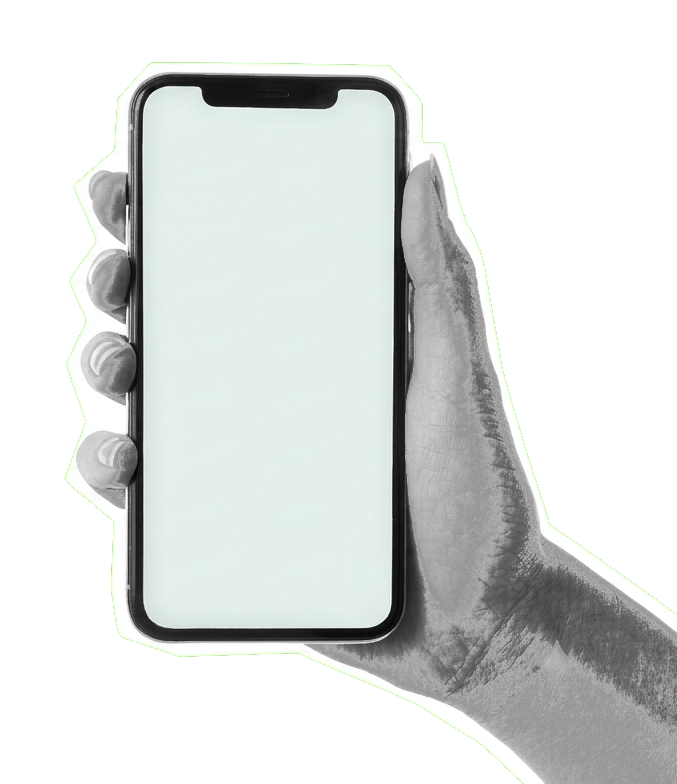
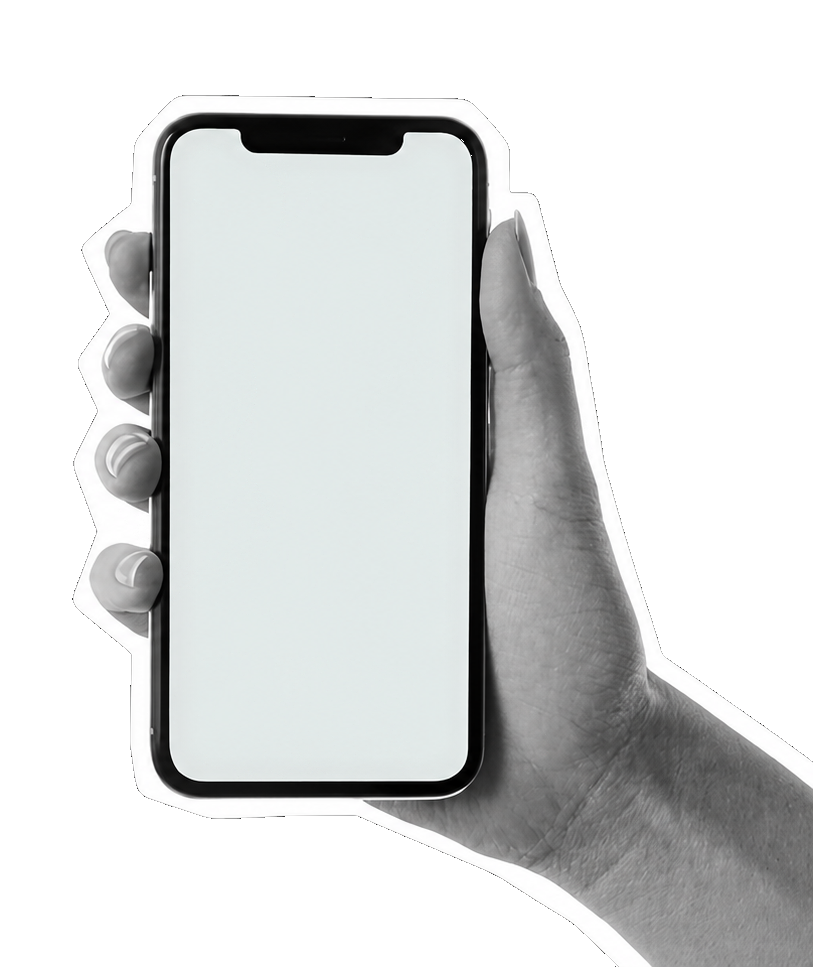
Swap hands photo, remove ambient blobs, smoother FAQ
- New transparent hands image, split per side
- Delete fixed blurred blobs (invisible, only cost paint)
- FAQ accordion uses grid-rows instead of max-height (no clip, less jank)

Changed region(s): [[0.0931, 0.0918, 1.0, 1.0], [0.7755, 0.9796, 0.8065, 1.0]]

diff --git a/src/routes/index.tsx b/src/routes/index.tsx
@@ -111,13 +111,6 @@ function Index() {
   return (
     <SmoothScroll>
       <div className="relative min-h-screen overflow-x-hidden bg-background text-ink font-sans">
-        {/* Ambient green blobs */}
-        <div aria-hidden className="pointer-events-none fixed inset-0 -z-10">
-          <div className="absolute -top-20 -left-24 h-[420px] w-[420px] rounded-full bg-lime opacity-40 blur-[120px]" />
-          <div className="absolute top-[35%] -right-32 h-[520px] w-[520px] rounded-full bg-lime-deep opacity-25 blur-[140px]" />
-          <div className="absolute bottom-0 left-1/3 h-[380px] w-[380px] rounded-full bg-lime-soft opacity-50 blur-[130px]" />
-        </div>
-
         <Nav />
         <Hero />
         <ResultsStrip />
@@ -606,11 +599,13 @@ function Faq({
                   </span>
                 </button>
                 <div
-                  className={`overflow-hidden transition-[max-height,opacity] duration-300 ease-in-out ${
-                    open ? "max-h-96 pb-6 opacity-100" : "max-h-0 opacity-0"
+                  className={`grid transition-[grid-template-rows,opacity] duration-300 ease-out ${
+                    open ? "grid-rows-[1fr] pb-6 opacity-100" : "grid-rows-[0fr] opacity-0"
                   }`}
                 >
-                  <p className="max-w-2xl pl-9 text-ink-soft">{f.a}</p>
+                  <div className="overflow-hidden">
+                    <p className="max-w-2xl pl-9 text-ink-soft">{f.a}</p>
+                  </div>
                 </div>
               </li>
             );
